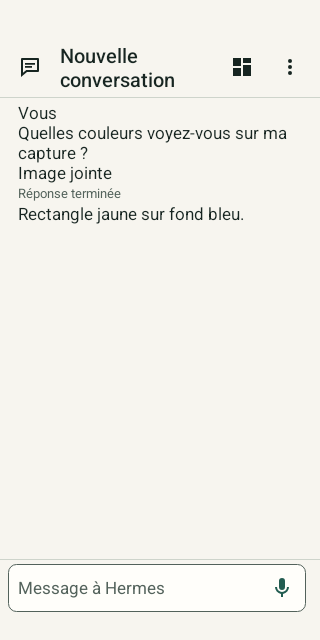
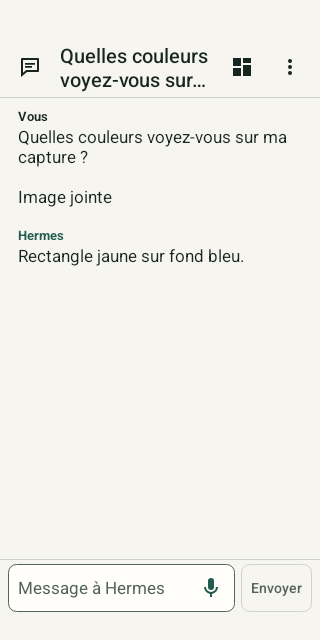
Show the native skill result and photo replay against the published gateway

diff --git a/docs/discussion-context.md b/docs/discussion-context.md
@@ -24,10 +24,10 @@ Tap **Préparer le brouillon** to append the skill request to your existing text
 > Utilise la compétence « qualite/synthese » pour cette demande.
 
 <a href="examples/discussion-context/03-competence-brouillon.png"><img src="examples/discussion-context/03-competence-brouillon.png" width="300" alt="The composer shows the end of the existing request and a new editable line naming qualite/synthese."></a>
-<a href="examples/discussion-context/04-competence-reponse.png"><img src="examples/discussion-context/04-competence-reponse.png" width="300" alt="The discussion displays the returned skill details followed by La fiche de relecture est ouverte."></a>
+<a href="examples/discussion-context/04-competence-reponse.png"><img src="examples/discussion-context/04-competence-reponse.png" width="300" alt="The thread shows Compétence consultée, a Voir le résultat button, and the reply La fiche de relecture est ouverte."></a>
 
-Preparing the draft started no run. After **Envoyer**, Hermes opened the installed `qualite/synthese` file once through `skill_view`. The test provider checked the returned instructions before replying « La fiche de relecture est ouverte. »
+The draft stayed on the phone until **Envoyer**. Hermes then opened the installed `qualite/synthese` file once through `skill_view`. The test provider checked its contents before replying « La fiche de relecture est ouverte. » Tap **Voir le résultat** under **Compétence consultée** to read the returned instructions. The native reader lets you select text or tap **Copier le contenu**.
 
-The photo captures used Android build `ba325fa` and gateway `3f19469`. The skill captures used Android build `2a41c63` and gateway `35e89fc`. The receipt identifies both APK pairs, the complete revisions and the SHA-256 of each original screen. [Native capture receipt](examples/discussion-context/receipt.json)
+Both journeys used the same Android packages and published gateway revision `3c43393`. The receipt identifies the package source, the matching public verification revision and the SHA-256 of each original screen. [Native capture receipt](examples/discussion-context/receipt.json)
 
 <!-- Generated from docs/sources/docs/discussion-context.md.in by scripts/docs.py. -->
